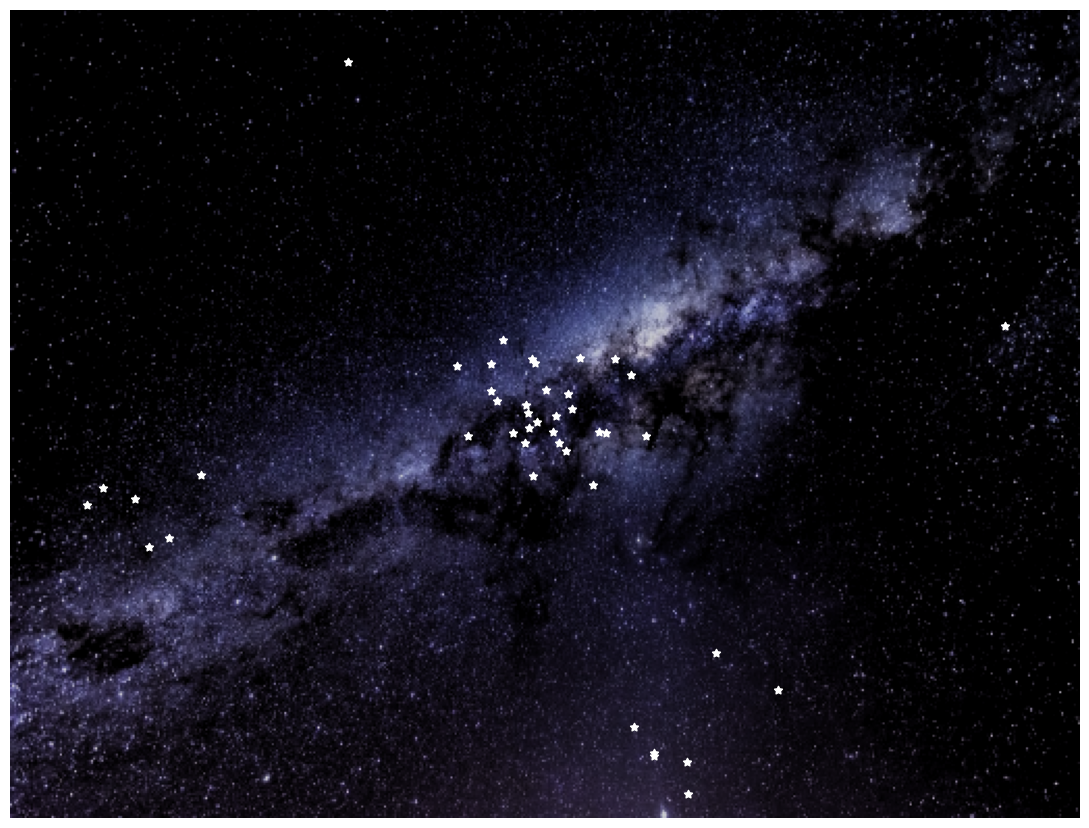
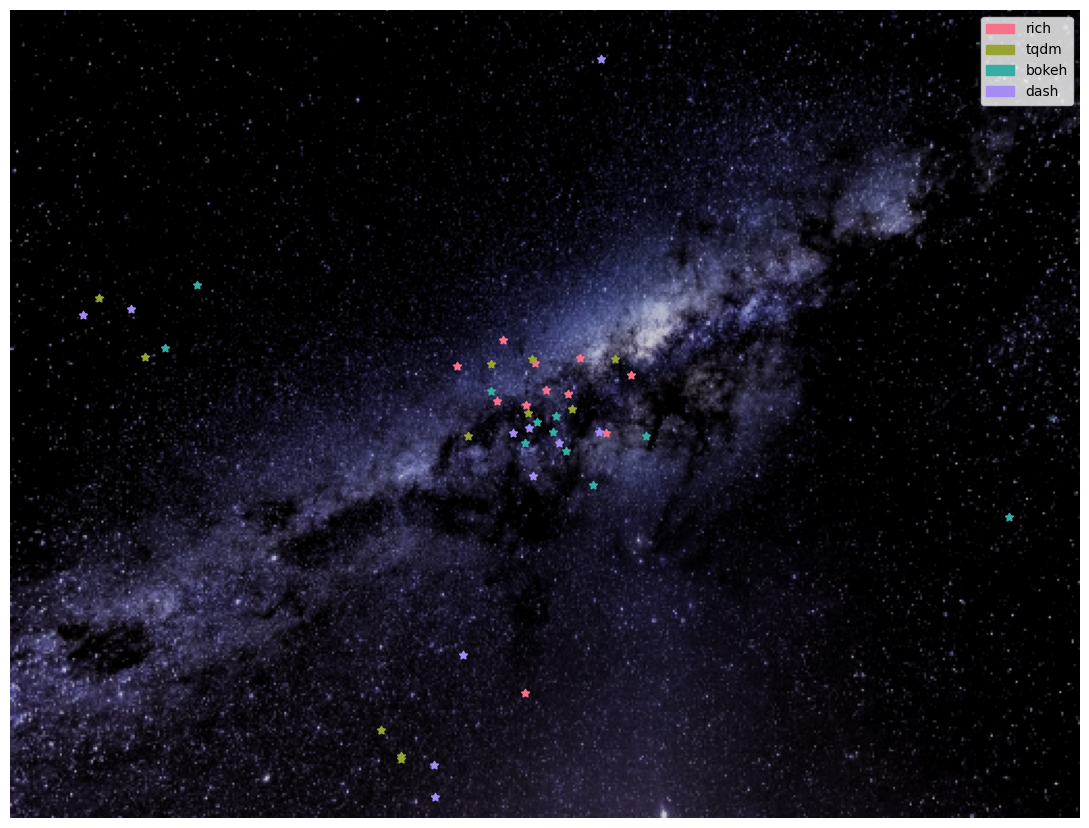
colors

diff --git a/plot_universe.py b/plot_universe.py
@@ -1,6 +1,8 @@
 import matplotlib.pyplot as plt
 import numpy as np
 import cv2
+import seaborn as sns
+import matplotlib.patches as mpatches
 
 def generate_galaxies(results_clusters, base_angle=True, seed=0):
 	np.random.seed(seed)
@@ -11,10 +13,12 @@ def generate_galaxies(results_clusters, base_angle=True, seed=0):
 	cluster_labels = cluster_labels[indexes]
 	points_arr = []
 	centroid_arr = []
+	keys_arr = []
 	if base_angle==True:
 		base_angle = np.pi*np.random.random()
 	for i_enum, label in enumerate(cluster_labels):
 		indexes = np.argwhere(labels==label).flatten()
+		keys = results_clusters[indexes]
 		points = np.random.normal(loc=0.0, scale=np.random.random()*0.08+0.07, size=(len(indexes), 2))
 		for i in range(len(points)):
 			for j in range(len(points[0])):
@@ -30,7 +34,8 @@ def generate_galaxies(results_clusters, base_angle=True, seed=0):
 			centroid = [0, 0]
 		centroid_arr.append(centroid)
 		points_arr.append(points)
-	return points_arr, centroid_arr
+		keys_arr.append(keys)
+	return points_arr, centroid_arr, keys_arr
 
 def scale_img(img, scale_percent=0.5):
 	width = int(img.shape[1] * scale_percent)
@@ -48,20 +53,27 @@ def change_brightness(img, value=30):
     img = cv2.cvtColor(final_hsv, cv2.COLOR_HSV2BGR)
     return img
 
-def plot_stars(points_arr, centroid_arr, N=6):
+def plot_stars(points_arr, centroid_arr, keys_arr, repos, N=6):
+	clrs = sns.color_palette('husl', n_colors=len(repos))
 	plt.rcParams["figure.autolayout"] = True
 	plt.rcParams["figure.figsize"] = (11,11)
 	im = plt.imread("galaxy.png")
 	fig, ax = plt.subplots()
 	im = ax.imshow(im, extent=[0, 515, 0, 389])
-	for points in points_arr:
-		ax.scatter(points.T[0]*int(515*0.4)+515//2, points.T[1]*int(389*0.4)+389//2, color='white', marker=(5, 1))
+	for points, keys in zip(points_arr, keys_arr):
+		points.T[0] = points.T[0]*int(515*0.4)+515//2
+		points.T[1] = points.T[1]*int(389*0.4)+389//2
+		for key, point_x, point_y in zip(keys.T[0], points.T[0], points.T[1]):
+			ax.scatter(point_x, point_y, color=clrs[repos.index(key)], marker=(5, 1))
 	ax.axis('off')
+	labels = [mpatches.Patch(color=clrs[repos.index(key)], label=key) for key in repos]
+	plt.legend(handles=labels)
 	plt.savefig('stars.png', bbox_inches='tight')
 
 
 if __name__ == '__main__':
 	from make_clusters import compute_clusters
-	results_clusters = compute_clusters(['bokeh', 'dash', 'rich', 'tqdm'])
-	points_arr, centroid_arr = generate_galaxies(results_clusters)
-	plot_stars(points_arr, centroid_arr)
+	repos = ['bokeh', 'dash', 'rich', 'tqdm']
+	results_clusters = compute_clusters(repos)
+	points_arr, centroid_arr, keys_arr = generate_galaxies(results_clusters)
+	plot_stars(points_arr, centroid_arr, keys_arr, repos)

diff --git a/Kyusei.py b/Kyusei.py
@@ -19,7 +19,6 @@ st.markdown('<p class="color-font">Kyusei</p>', unsafe_allow_html=True)
 
 
 st.subheader("Repositories")
-# for i in range(5):
 repo_names = ['requests', 'scrapy', 'fastapi', 'rich', 'textual', 'httpx', 'pydantic', 'tqdm', 'bokeh', 'sanic', 'dash', 'mangadex', 'pyseto', 'Slicer', 'pytago', 'earthquakes',
               'dvc', 'aiospotify', 'ray', 'ruck', 'quimb', 'fileseq', 'Lean', 'merk', 'pe', 'Ignition', 'Cura', 'nextpnr', 'onlineshop', 'labyrinth', 'sentry', 'flask', 'httpie']
 
@@ -37,16 +36,16 @@ if st.button("Submit"):
         eps=0.015
     else:
         eps=0.0075
+    repos = arr
     results_clusters = compute_clusters(arr)
     base_angle = np.pi*np.random.random()
-    points_arr, centroid_arr = generate_galaxies(results_clusters, base_angle=base_angle)
-    st.write(pd.DataFrame(results_clusters))
-    plot_stars(points_arr, centroid_arr)
+    points_arr, centroid_arr, keys_arr = generate_galaxies(results_clusters, base_angle=base_angle)
+    plot_stars(points_arr, centroid_arr, keys_arr, repos)
     i = 0
     imageLocation = st.empty()
-    while True:
+    for _ in range(int(2*np.pi//0.05)):
         imageLocation.image('stars.png')
-        points_arr, centroid_arr = generate_galaxies(results_clusters, base_angle=base_angle+i*0.05)
-        plot_stars(points_arr, centroid_arr)
+        points_arr, centroid_arr, keys_arr = generate_galaxies(results_clusters, base_angle=base_angle+i*0.05)
+        plot_stars(points_arr, centroid_arr, keys_arr, repos)
         time.sleep(0.05)
         i += 1
